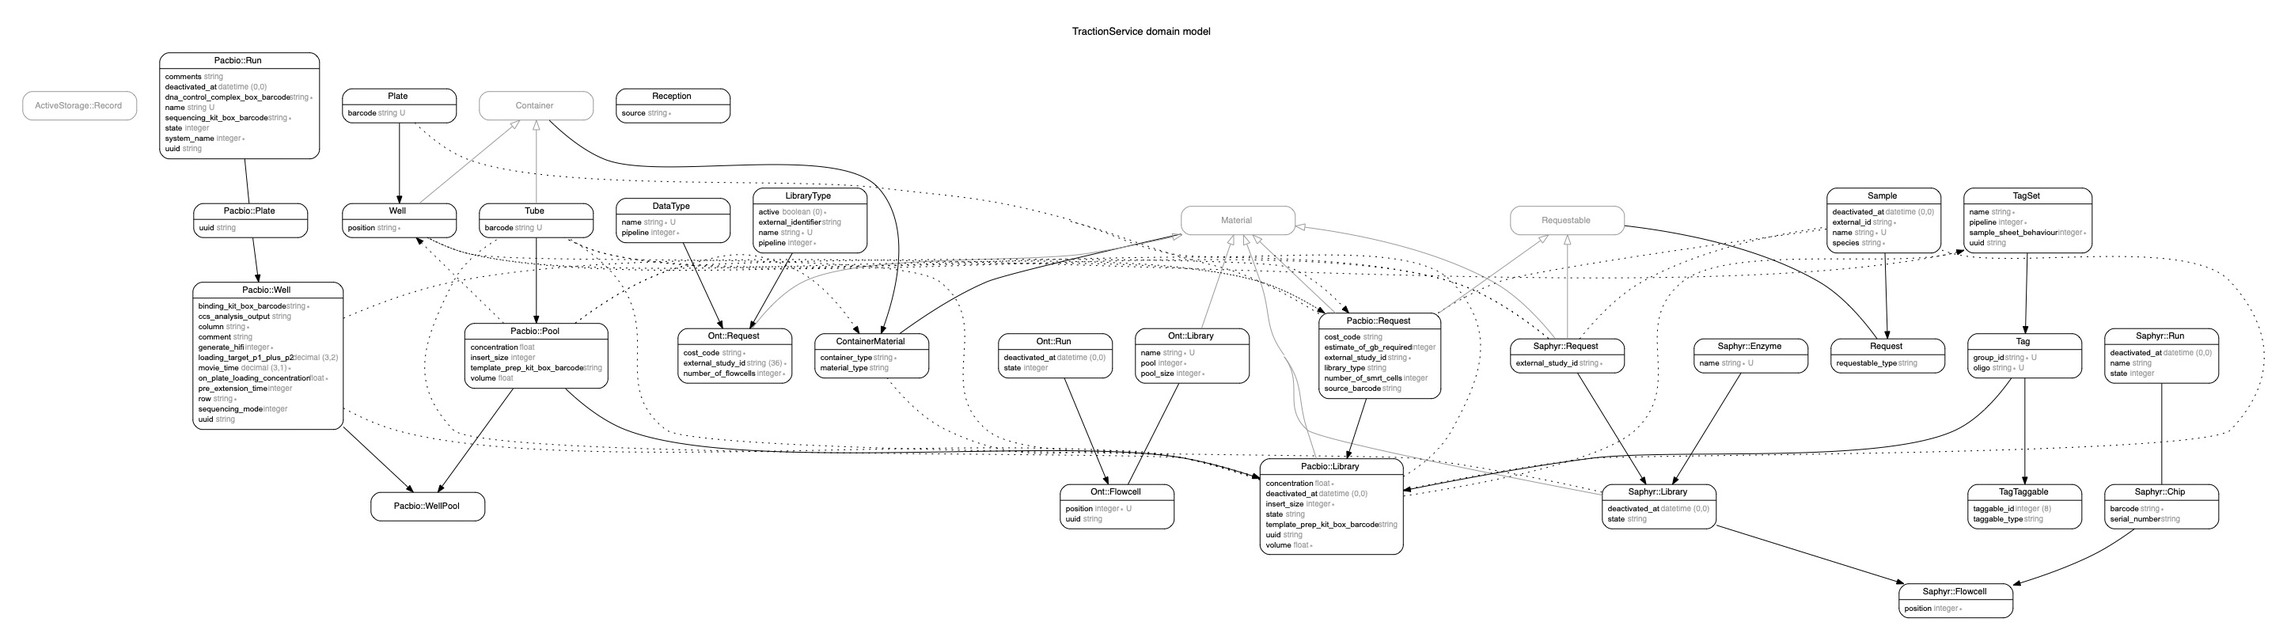
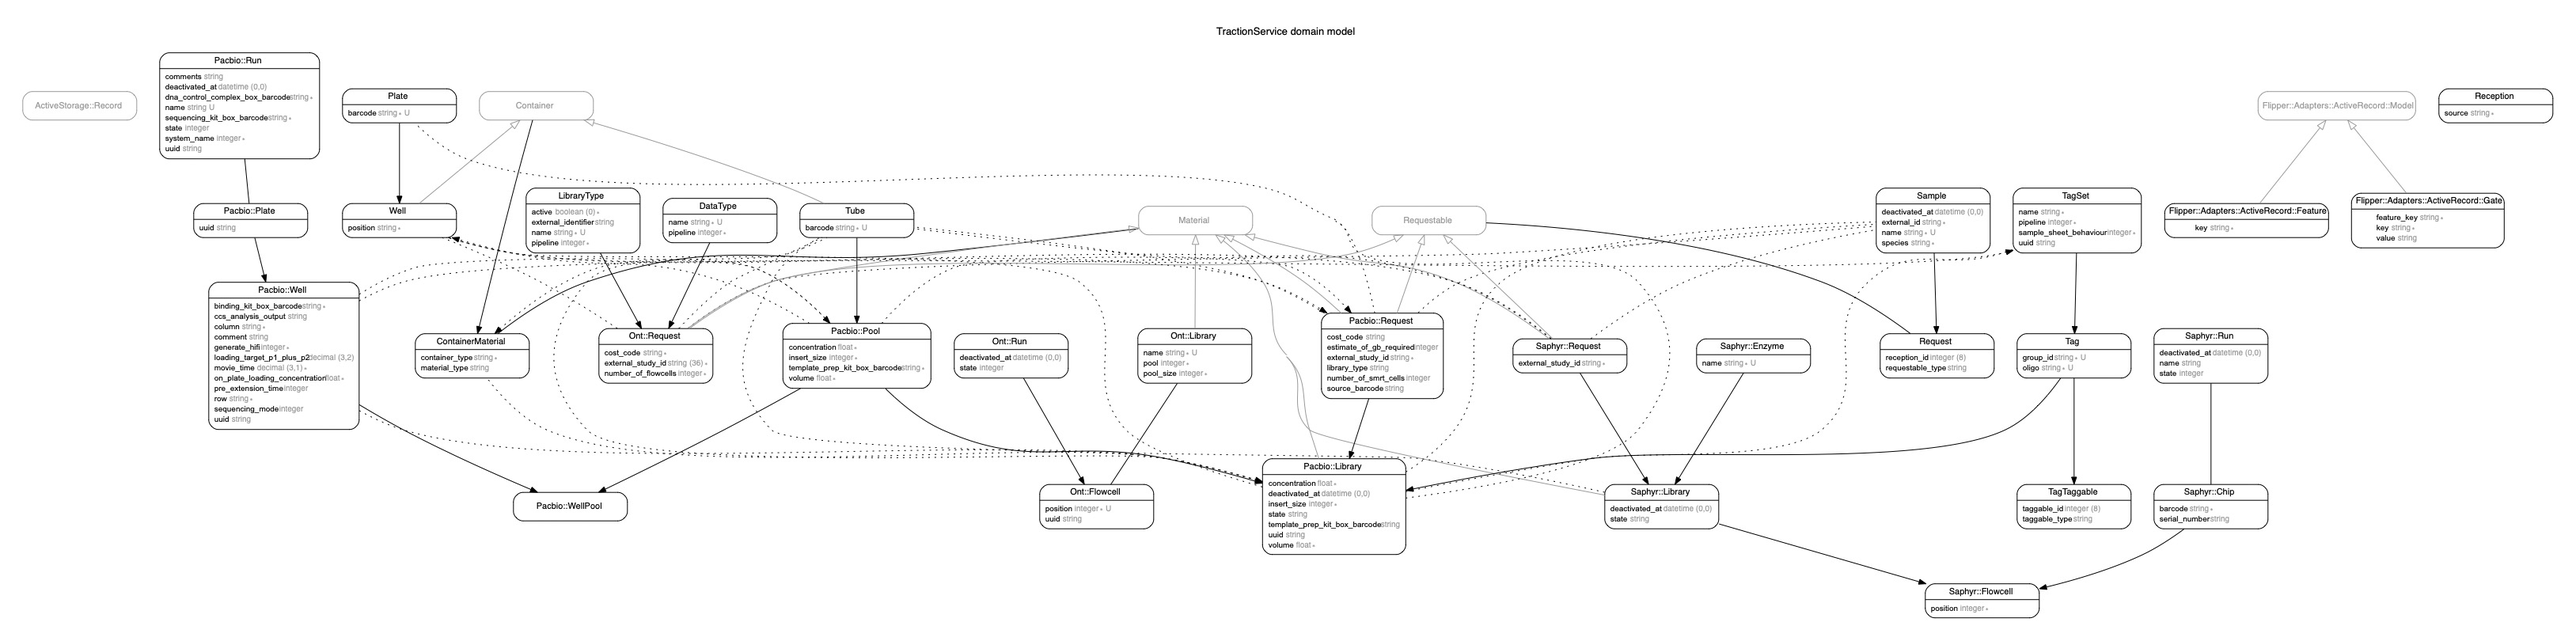
Requests track their reception

diff --git a/spec/models/reception/resource_factory_spec.rb b/spec/models/reception/resource_factory_spec.rb
@@ -137,27 +137,20 @@ RSpec.describe Reception::ResourceFactory, type: :model do
   end
 
   describe '#construct_resources!' do
-    subject(:construct_resources) { build(:reception_resource_factory, request_attributes: request_attributes).construct_resources! }
-
-    before do
-      create :tube, existing_tube
-      exists = create :plate, existing_plate
-      create :well, **existing_well_a1.except(:barcode), plate: exists
-      create :sample, existing_sample_a1
-      create :sample, existing_sample_b1
+    subject(:construct_resources) do
+      resource_factory.construct_resources!
     end
 
+    let(:resource_factory) do
+      build(:reception_resource_factory, request_attributes: request_attributes)
+    end
     let(:existing_tube) { attributes_for(:tube, :with_barcode) }
     let(:new_plate_barcode) { generate(:barcode) }
     let(:existing_plate_barcode) { generate(:barcode) }
     let(:existing_plate) { attributes_for(:plate, barcode: existing_plate_barcode) }
-    let(:new_well_a1) { attributes_for(:well, position: 'A1', barcode: new_plate_barcode) }
-    let(:new_well_b1) { attributes_for(:well, position: 'B1', barcode: new_plate_barcode) }
     let(:existing_well_a1) { attributes_for(:well, position: 'A1', barcode: existing_plate_barcode) }
-    let(:new_well_c1) { attributes_for(:well, position: 'C1', barcode: existing_plate_barcode) }
     let(:existing_sample_a1) { attributes_for(:sample) }
     let(:existing_sample_b1) { attributes_for(:sample) }
-
     let(:request_attributes) do
       [{
         request: request_parameters,
@@ -170,11 +163,11 @@ RSpec.describe Reception::ResourceFactory, type: :model do
       }, {
         request: request_parameters,
         sample: attributes_for(:sample),
-        container: { type: 'wells', **new_well_a1 }
+        container: { type: 'wells', **attributes_for(:well, position: 'A1', barcode: new_plate_barcode) }
       }, {
         request: request_parameters,
         sample: existing_sample_b1,
-        container: { type: 'wells', **new_well_b1 }
+        container: { type: 'wells', **attributes_for(:well, position: 'B1', barcode: new_plate_barcode) }
       }, {
         request: request_parameters,
         sample: existing_sample_a1,
@@ -182,8 +175,18 @@ RSpec.describe Reception::ResourceFactory, type: :model do
       }, {
         request: request_parameters,
         sample: attributes_for(:sample),
-        container: { type: 'wells', **new_well_c1 }
+        container: { type: 'wells', **attributes_for(:well, position: 'C1', barcode: existing_plate_barcode) }
       }]
+    end
+
+    let(:reception) { resource_factory.reception }
+
+    before do
+      create :tube, existing_tube
+      exists = create :plate, existing_plate
+      create :well, **existing_well_a1.except(:barcode), plate: exists
+      create :sample, existing_sample_a1
+      create :sample, existing_sample_b1
     end
 
     context 'ont' do
@@ -216,6 +219,11 @@ RSpec.describe Reception::ResourceFactory, type: :model do
 
       it 'creates new wells' do
         expect { construct_resources }.to change(Well, :count).by(3)
+      end
+
+      it 'associates the requests with the reception' do
+        construct_resources
+        expect(reception.requests.reload.count).to eq 6
       end
     end
 
@@ -250,6 +258,11 @@ RSpec.describe Reception::ResourceFactory, type: :model do
       it 'creates new wells' do
         expect { construct_resources }.to change(Well, :count).by(3)
       end
+
+      it 'associates the requests with the reception' do
+        construct_resources
+        expect(reception.requests.reload.count).to eq 6
+      end
     end
 
     context 'saphyr' do
@@ -282,6 +295,11 @@ RSpec.describe Reception::ResourceFactory, type: :model do
 
       it 'creates new wells' do
         expect { construct_resources }.to change(Well, :count).by(3)
+      end
+
+      it 'associates the requests with the reception' do
+        construct_resources
+        expect(reception.requests.reload.count).to eq 6
       end
     end
   end

diff --git a/db/schema.rb b/db/schema.rb
@@ -10,7 +10,7 @@
 #
 # It's strongly recommended that you check this file into your version control system.
 
-ActiveRecord::Schema[7.0].define(version: 2022_06_16_114645) do
+ActiveRecord::Schema[7.0].define(version: 2022_06_23_104146) do
   create_table "container_materials", charset: "utf8mb3", force: :cascade do |t|
     t.string "container_type", null: false
     t.bigint "container_id", null: false
@@ -233,6 +233,8 @@ ActiveRecord::Schema[7.0].define(version: 2022_06_16_114645) do
     t.bigint "requestable_id"
     t.datetime "created_at", precision: nil, null: false
     t.datetime "updated_at", precision: nil, null: false
+    t.bigint "reception_id"
+    t.index ["reception_id"], name: "index_requests_on_reception_id"
     t.index ["requestable_type", "requestable_id"], name: "index_requests_on_requestable_type_and_requestable_id"
     t.index ["sample_id"], name: "index_requests_on_sample_id"
   end
@@ -351,4 +353,5 @@ ActiveRecord::Schema[7.0].define(version: 2022_06_16_114645) do
   add_foreign_key "pacbio_libraries", "pacbio_pools"
   add_foreign_key "pacbio_libraries", "pacbio_requests"
   add_foreign_key "pacbio_pools", "tubes"
+  add_foreign_key "requests", "receptions"
 end

diff --git a/app/pacbio/pacbio.rb b/app/pacbio/pacbio.rb
@@ -25,9 +25,10 @@ module Pacbio
 
   # We have this argument here for API compatibility
   # rubocop:disable Lint/UnusedMethodArgument
-  def self.request_factory(sample:, container:, request_attributes:, resource_factory:)
+  def self.request_factory(sample:, container:, request_attributes:, resource_factory:, reception:)
     ::Request.new(
       sample: sample,
+      reception: reception,
       requestable: Pacbio::Request.new(
         container: container,
         **request_attributes.slice(*self.request_attributes)

diff --git a/app/saphyr/saphyr.rb b/app/saphyr/saphyr.rb
@@ -20,9 +20,10 @@ module Saphyr
 
   # We have this argument here for API compatibility
   # rubocop:disable Lint/UnusedMethodArgument
-  def self.request_factory(sample:, container:, request_attributes:, resource_factory:)
+  def self.request_factory(sample:, container:, request_attributes:, resource_factory:, reception:)
     ::Request.new(
       sample: sample,
+      reception: reception,
       requestable: Saphyr::Request.new(
         container: container,
         **request_attributes.slice(*self.request_attributes)

diff --git a/app/models/reception/request_factory.rb b/app/models/reception/request_factory.rb
@@ -7,7 +7,7 @@ class Reception
     include ActiveModel::Model
     extend NestedValidation
 
-    attr_accessor :resource_factory
+    attr_accessor :resource_factory, :reception
     attr_writer :sample, :container
 
     validates :request, :container, :resource_factory, presence: true
@@ -41,6 +41,7 @@ class Reception
 
     def request
       @request ||= library_type.request_factory(
+        reception: reception,
         sample: sample,
         container: container,
         request_attributes: @request_attributes,

diff --git a/app/ont/ont.rb b/app/ont/ont.rb
@@ -16,9 +16,10 @@ module Ont
     %i[library_type data_type]
   end
 
-  def self.request_factory(sample:, container:, request_attributes:, resource_factory:)
+  def self.request_factory(sample:, container:, request_attributes:, resource_factory:, reception:)
     ::Request.new(
       sample: sample,
+      reception: reception,
       requestable: Ont::Request.new(
         container: container,
         **request_attributes.slice(*self.request_attributes - associated_request_attributes),

diff --git a/app/models/reception/resource_factory.rb b/app/models/reception/resource_factory.rb
@@ -29,7 +29,7 @@ class Reception
     # @option request [Hash] container: Hash containing the attributes for the container
     def request_attributes=(attributes)
       @request_attributes = attributes.map do |request_attribute|
-        RequestFactory.new(resource_factory: self, **request_attribute)
+        RequestFactory.new(resource_factory: self, reception: reception, **request_attribute)
       end
     end
 

diff --git a/app/models/reception.rb b/app/models/reception.rb
@@ -5,6 +5,8 @@
 # auditing and event tracking purposes.
 class Reception < ApplicationRecord
   extend NestedValidation
+  has_many :requests, dependent: :restrict_with_error
+
   # Source is used to track where a reception event came from.
   # Anything going via traction-ui (ie. everything initially) should be prefixed
   # traction-ui. For example traction-ui.sequencescape or traction-ui.samples-extraction

diff --git a/db/migrate/20220623104146_add_reception_id_to_requests.rb b/db/migrate/20220623104146_add_reception_id_to_requests.rb
@@ -1,0 +1,9 @@
+# frozen_string_literal: true
+
+# In order to keep track of what came from where, we link our requests to
+# a reception
+class AddReceptionIdToRequests < ActiveRecord::Migration[7.0]
+  def change
+    add_reference :requests, :reception, foreign_key: true, index: true
+  end
+end

diff --git a/app/models/request.rb b/app/models/request.rb
@@ -4,6 +4,7 @@
 class Request < ApplicationRecord
   belongs_to :sample
   belongs_to :requestable, polymorphic: true, inverse_of: :request
+  belongs_to :reception, optional: true
 
   validates_associated :sample, :requestable
 end
